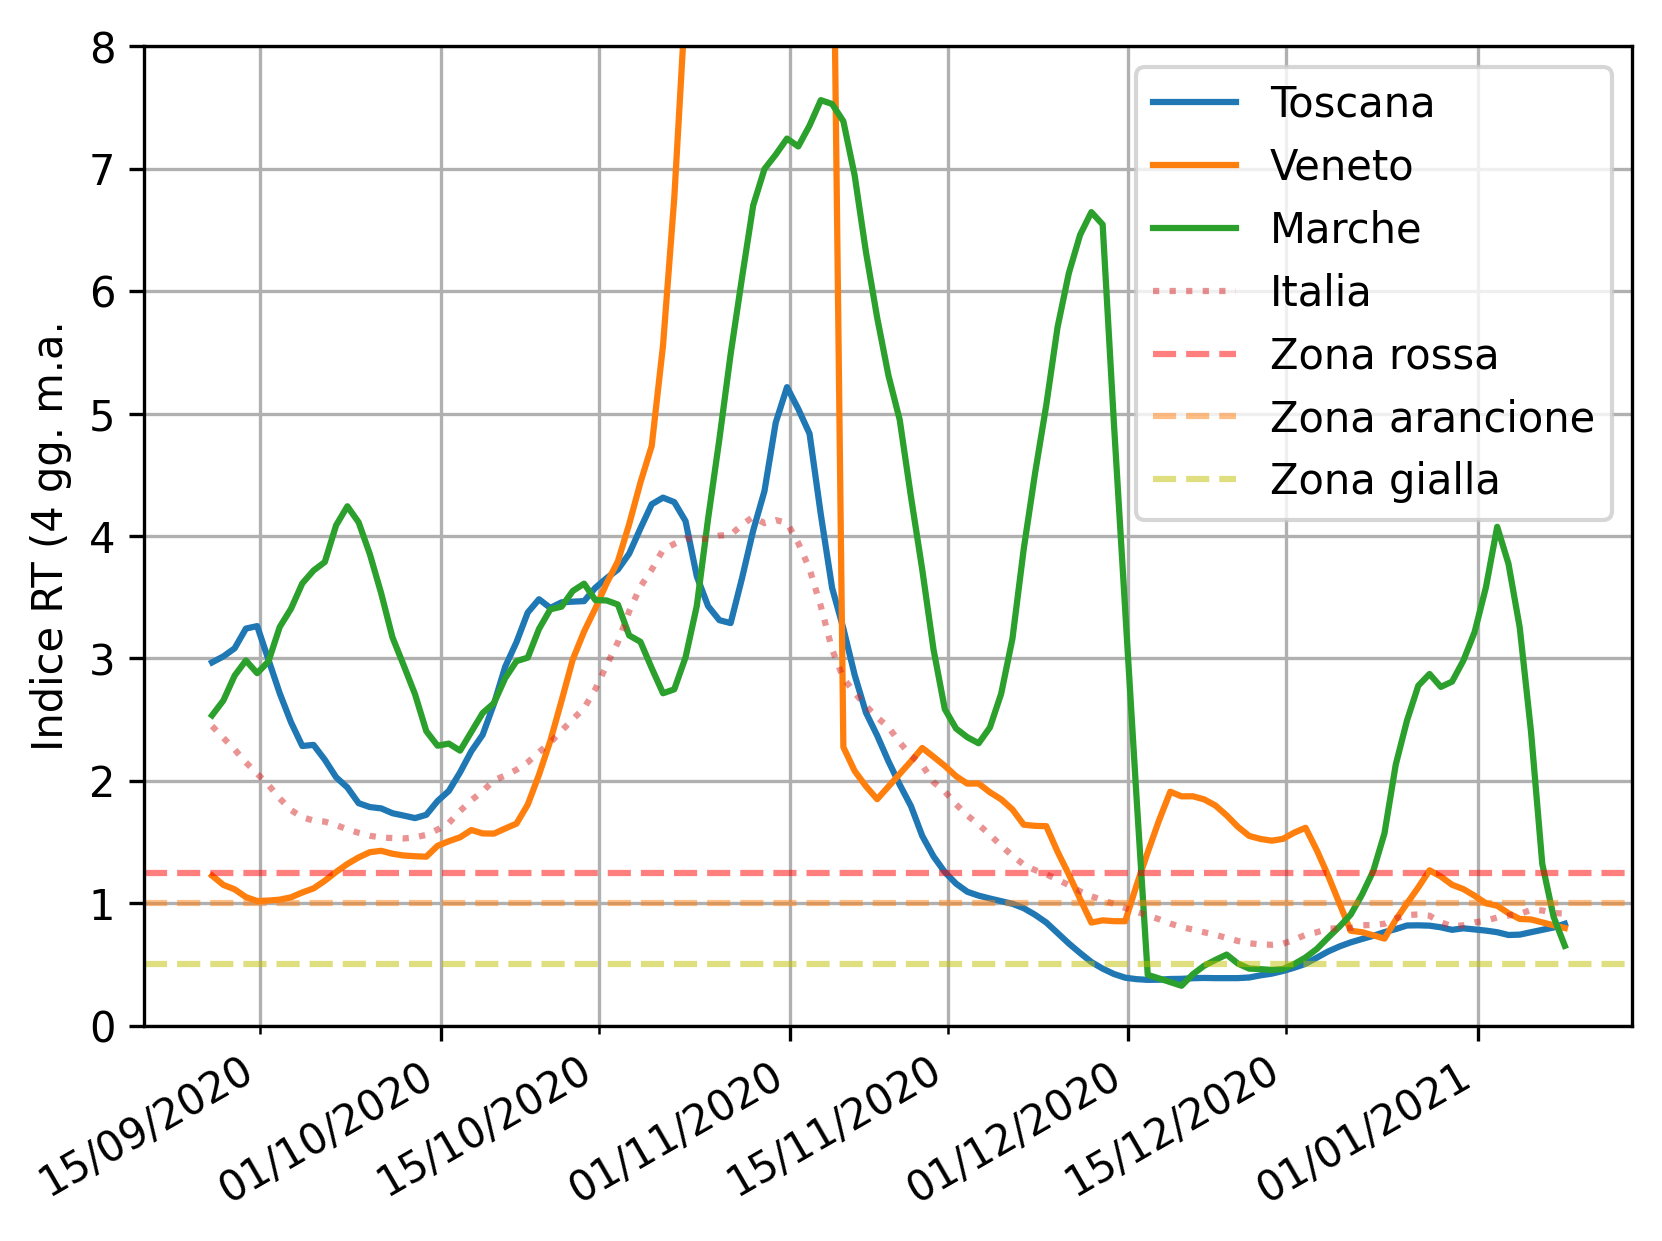
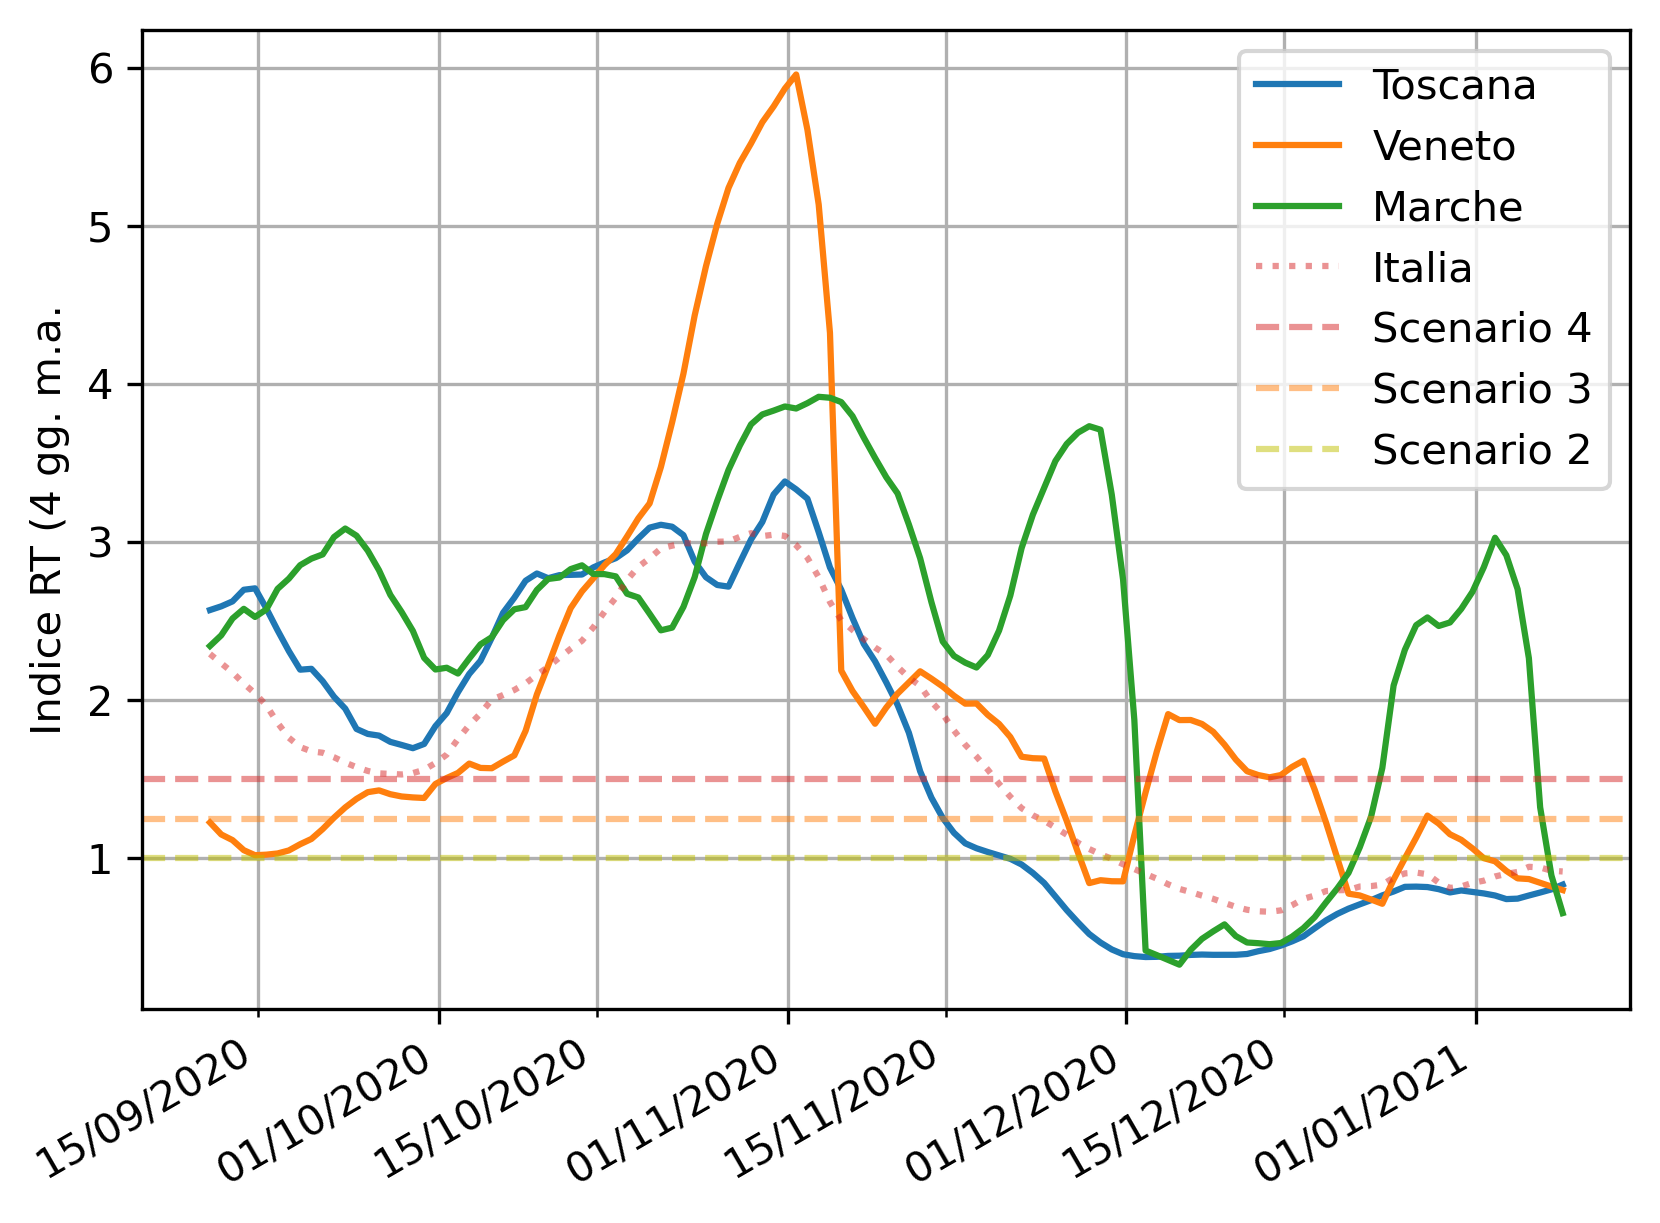
Modifications for rt, dpcm

diff --git a/regions/analysis.py b/regions/analysis.py
@@ -57,18 +57,18 @@ def compute_rt_per_regions(save_image=False, show=False):
 
     plt.plot(nation_data['data'], nation_data['rt'], alpha=0.5, linestyle=':', label="Italia")
 
-    plt.axhline(y=1.25, color='r', linestyle='--', alpha=0.5, label="Zona rossa")
-    plt.axhline(y=1, color='tab:orange', linestyle='--', alpha=0.5, label="Zona arancione")
-    plt.axhline(y=0.5, color='y', linestyle='--', alpha=0.5, label="Zona gialla")
+    plt.axhline(y=1.50, color='tab:red', linestyle='--', alpha=0.5, label="Scenario 4")
+    plt.axhline(y=1.25, color='tab:orange', linestyle='--', alpha=0.5, label="Scenario 3")
+    plt.axhline(y=1, color='y', linestyle='--', alpha=0.5, label="Scenario 2")
 
-    plt.ylim([0, 8])
+    #plt.ylim([0, 8])
     plt.gca().xaxis.set_major_locator(MonthLocator())
     plt.gca().xaxis.set_minor_locator(MonthLocator(bymonthday=15))
     plt.gca().xaxis.set_major_formatter(DateFormatter('%d/%m/%Y'))
     plt.gca().xaxis.set_minor_formatter(DateFormatter('%d/%m/%Y'))
     plt.gcf().autofmt_xdate(which='both')
     plt.grid(True, which='both', axis='both')
-    plt.ylabel('Indice RT (4 gg. m.a.')
+    plt.ylabel('Indice RT (4 gg. m.a.)')
     plt.legend()
 
     if save_image:
@@ -91,8 +91,7 @@ def compute_weekly_incidence(save_image=False, show=False):
 
     plt.plot(nation_data['data'], nation_data['incid_sett_per_100000_ab'], alpha=0.5, linestyle=':', label="Italia")
 
-    plt.axhline(y=250, color='r', linestyle='--', alpha=0.5, label="Zona rossa")
-    plt.axhline(y=50, color='y', linestyle='--', alpha=0.5, label="Zona gialla")
+    plt.axhline(y=50, color='tab:orange', linestyle='--', alpha=0.5, label="Soglia incidenza")
 
     plt.gca().xaxis.set_major_locator(MonthLocator())
     plt.gca().xaxis.set_minor_locator(MonthLocator(bymonthday=15))
@@ -182,8 +181,6 @@ def compute_daily_cases(save_image=False, show=False):
 
     pos = utils.compute_x_days_mov_average(nation_data['nuovi_pos_per_100000_ab'], 7)
     plt.plot(nation_data['data'], pos, alpha=0.5, linestyle=':', label="Italia")
-
-    plt.axhline(y=50, color='r', linestyle='--', alpha=0.5, label="Cond. nec. zona rossa")
 
     plt.gca().xaxis.set_major_locator(MonthLocator())
     plt.gca().xaxis.set_minor_locator(MonthLocator(bymonthday=15))

diff --git a/utils.py b/utils.py
@@ -59,8 +59,10 @@ def compute_rt(tot_cases, tot_healed, tot_death):
     right_padding = np.full(7, float('NaN'))
     rt_padded = np.concatenate((column_rt, right_padding))
 
-    return compute_x_days_mov_average(rt_padded, 4)
+    rt_smoother = lambda x: math.log2(x) + 1 if (x > 2) else x
+    v_rt_smoother = np.vectorize(rt_smoother)
 
+    return v_rt_smoother(compute_x_days_mov_average(rt_padded, 4))
 
 def scale_per_x_inhabitants(array, population, per_inhabitants=100000):
     return array / population * per_inhabitants

diff --git a/index.md b/index.md
@@ -1,5 +1,13 @@
 I grafici sotto riportati estraggono informazioni di rilievo a partire dagli [Open Data forniti dalla Protezione Civile](https://github.com/pcm-dpc/COVID-19). I grafici si rigenerano automaticamente allo scoccare della mezzanotte, con i dati aggiornati al giorno precedente. I grafici possono anche essere scaricati in formato PNG da [qui](https://github.com/maldins46/CovidAnalysis/releases/latest).
 
+# Come vengono determinate le zone
+
+A partire dal 16 di gennaio, i colori delle varie regioni vengono determinati sulla base di livello di rischio, valore dell'indice Rt e in base all'incidenza settimanale dei casi. Il meccanismo [viene spiegato molto bene da YouTrend](https://www.youtrend.it/2021/01/14/come-funziona-il-nuovo-sistema-per-decidere-i-colori-delle-regioni/). Riporto questo grafico dallo stesso articolo:
+
+![Sistema Colori](./docs/sist_colori.png)
+
+Il livello di rischio viene calcolato sulla base di molteplici parametri, tra cui la pressione sul sistema sanitario.
+
 
 # Parametri nazionali
 
@@ -19,13 +27,20 @@ I grafici seguenti raffrontano vari parametri a livello regionale, in particolar
 
 ![RT per regioni](./docs/rt_per_regioni.png)
 
-Il grafico mostra l'andamento dell'indice R(t) per le regioni del benchmark, calcolato con **modellazione SIRD** (un metodo semplificato, **non quello utilizzato dall'ISS**, ma indicativo dell'andamento). L'algoritmo segue il procedimento [indicato dall'INFN](https://covid19.infn.it/banner/Approfondimenti.pdf), con una modifica aggiuntiva che permette di considerare lo scostamento temporale tra nuovi infetti e guariti-deceduti. 
+Il grafico mostra l'andamento dell'indice R(t) per le regioni del benchmark, calcolato con **modellazione SIRD** (un metodo semplificato, **non quello utilizzato dall'ISS**, ma indicativo dell'andamento). Le soglie orizzontali indicano i vari **scenari**, a seconda dei quali vengono determinate le varie zone come riportato nella tabella a inizio pagina:
+- **Scenario 1**: R(t) minore di 1;
+- **Scenario 2**: R(t) compreso tra 1 e 1,25;
+- **Scenario 3**: R(t) compreso tra 1.25 e 1.50;
+- **Scenario 4**: R(t) superiori a 1.50.
 
-Nella pratica, ogni punto del grafico viene calcolato come `α / (β + γ)`, in cui:
+L'algoritmo segue il procedimento [indicato dall'INFN](https://covid19.infn.it/banner/Approfondimenti.pdf), con alcune modifiche aggiuntive.
+
+Nella pratica, la modellazione SIRD richiede che ogni punto del grafico venga calcolato come `α / (β + γ)`, in cui:
 - `α`: incidenza settimanale dei nuovi casi;
 - `β`: incidenza settimanale dei dimessi guariti;
 - `γ`: incidenza settimanale dei deceduti per COVID-19.
-A differenza del metodo dell'INFN, però, `β` e `γ` vengono "slittati" in avanti di 7 giorni (numero che denota la durata media di ricovero per COVID-19), permettendo di comparare tra loro le misure.È stata inoltre applicata una media mobile su 4 giorni per rendere la curva meno "spigolosa". 
+
+A differenza del metodo dell'INFN, però, `β` e `γ` vengono "slittati" in avanti di 7 giorni (numero che denota la durata media di ricovero per COVID-19), permettendo di comparare tra loro le misure. È stata inoltre applicata una media mobile su 4 giorni per rendere la curva meno "spigolosa". Infine, un'ulteriore modifica è stata applicata al risultato precedente: ogni valore `x` maggiore di 2 viene posto essere uguale a `log2(x) + 1`. Ciò viene vatto per porre un "tetto" all'indice, che per la natura dei dati disponibili può assumere valori molto alti.
 
 Tutti questi accorgimenti portano l'indice ad essere "arretrato" di 9 giorni rispetto alla data odierna. Questo è anche il motivo per cui in genere i vari metodi per il calcolo di R(t) non riportano il dato ad oggi, ma quello di almeno una settimana prima rispetto all'ultimo campione rilevato.
 
@@ -33,14 +48,14 @@ Orizzontalmente sono inoltre riportate le soglie che portano, al di sopra di ess
 
 *Nota metodologica*: i differenti metodi per il calcolo di R(t) **possono portare a risultati molto differenti** tra di loro. In generale, **tutti i metodi modellano correttamente un valore maggiore di 1 nel caso in cui i contagi sono in aumento, e minore di 1 nel caso in cui siano in diminuzione, ma lo scostamento dal valore 1 può variare tra i metodi anche di molto**. 
 
-**EpiEstim**, il modello utilizzato dall'ISS, è molto più preciso: utilizza un modello probabilistico complesso e tiene traccia tra le altre anche dei casi importati (dato non disponibile da quelli forniti dalla Protezione Civile). In generale tale modello e porta a valori più bassi nel momento il cui il valore è maggiore di 1 (compresi tra 1 e 2,5). Il modello SIRD, al contrario, quando superiore a 1, può portare a valori anche di molto alti, in quanto vengono fatte varie assunzioni anche molto forti. Basti pensare ad `α`: l'incidenza settimanale dei nuovi casi dovrebbe considerare tutte le persone infette dal preciso momento di inizio dell'infezione, compresi gli asintomatici: dato che non è possibile da ottenere, e che porta quindi la stima a essere approssimata.
+**EpiEstim**, il modello utilizzato dall'ISS, è molto più preciso: utilizza un modello probabilistico complesso e tiene traccia tra le altre anche dei casi importati (dato non disponibile da quelli forniti dalla Protezione Civile). In generale tale modello e porta a valori più bassi nel momento il cui il valore è maggiore di 1 (compresi tra 1 e 2,5). Il modello SIRD, al contrario, quando superiore a 1, può portare a valori anche di molto alti, in quanto vengono fatte varie assunzioni anche molto forti (motivo per cui è stata posta la funzione "tetto"). Basti pensare ad `α`: l'incidenza settimanale dei nuovi casi dovrebbe considerare tutte le persone infette dal preciso momento di inizio dell'infezione, compresi gli asintomatici: dato che non è possibile da ottenere, e che porta quindi la stima a essere approssimata.
 
 
 ## Incidenza settimanale casi, per 100.000 abitanti
 
 ![Incidenza settimanale](./docs/incid_sett_per_regioni.png)
 
-Il grafico mostra l'incidenza settimanale dei nuovi casi registrati, per ogni regione, scalato su 100.000 abitanti. In altre parole, ogni punto del grafico esprime **la differenza tra il totale dei casi registrati nel giorno *n* rispetto al giorno *n - 7***. Il dato viene riportato in quanto sarà uno dei nuovi parametri previsti dalle regole valide dal 16 gennaio, per la classificazione della regione: al di sopra dei 250 casi ogni 100.000 abitanti, la regione potrà essere posta in zona rossa; al di sotto dei 50 casi, andrebbero a venir meno anche le restrizioni della zona gialla.
+Il grafico mostra l'incidenza settimanale dei nuovi casi registrati, per ogni regione, scalato su 100.000 abitanti. In altre parole, ogni punto del grafico esprime **la differenza tra il totale dei casi registrati nel giorno *n* rispetto al giorno *n - 7***. Il dato viene riportato in quanto la soglia a 50 è uno dei nuovi parametri previsti dalle regole valide dal 16 gennaio, come indicato nella tabella iniziale.
 
 ## Nuovi positivi per regioni, per 100.000 abitanti
 
@@ -48,7 +63,6 @@ Il grafico mostra l'incidenza settimanale dei nuovi casi registrati, per ogni re
 
 Il grafico indica i nuovi casi positivi registrati ogni giorno, tramite tampone molecolare, per ogni regione del benchmark. Il dato è scalato su 100.000 abitanti, rendendo così possibile mettere in relazione tra loro le regioni, tenendo conto della diversa densità di popolazione. Avendo il dato una forte stagionalità settimanale, è stata effettuata una media mobile su 7 giorni, per ogni serie. È riportata, con la traccia semi-trasparente, la media italiana.
 
-Inoltre, a partire dall'11 di gennaio, è stata stabilita la soglia di 50 nuovi casi ogni 100.000 abitanti come **condizione necessaria** al passaggio delle regioni a zona rossa, con indice R(t) superiore a 1,25. Il criterio dell'incidenza settimanale, invece, **non tiene conto della soglia riportata su questo grafico**: se una regione registra più di 250 casi alla settimana ogni 100.000 abitanti, finisce automaticamente in zona rossa.
 
 ## Occupazione terapia intensiva per regioni
 
